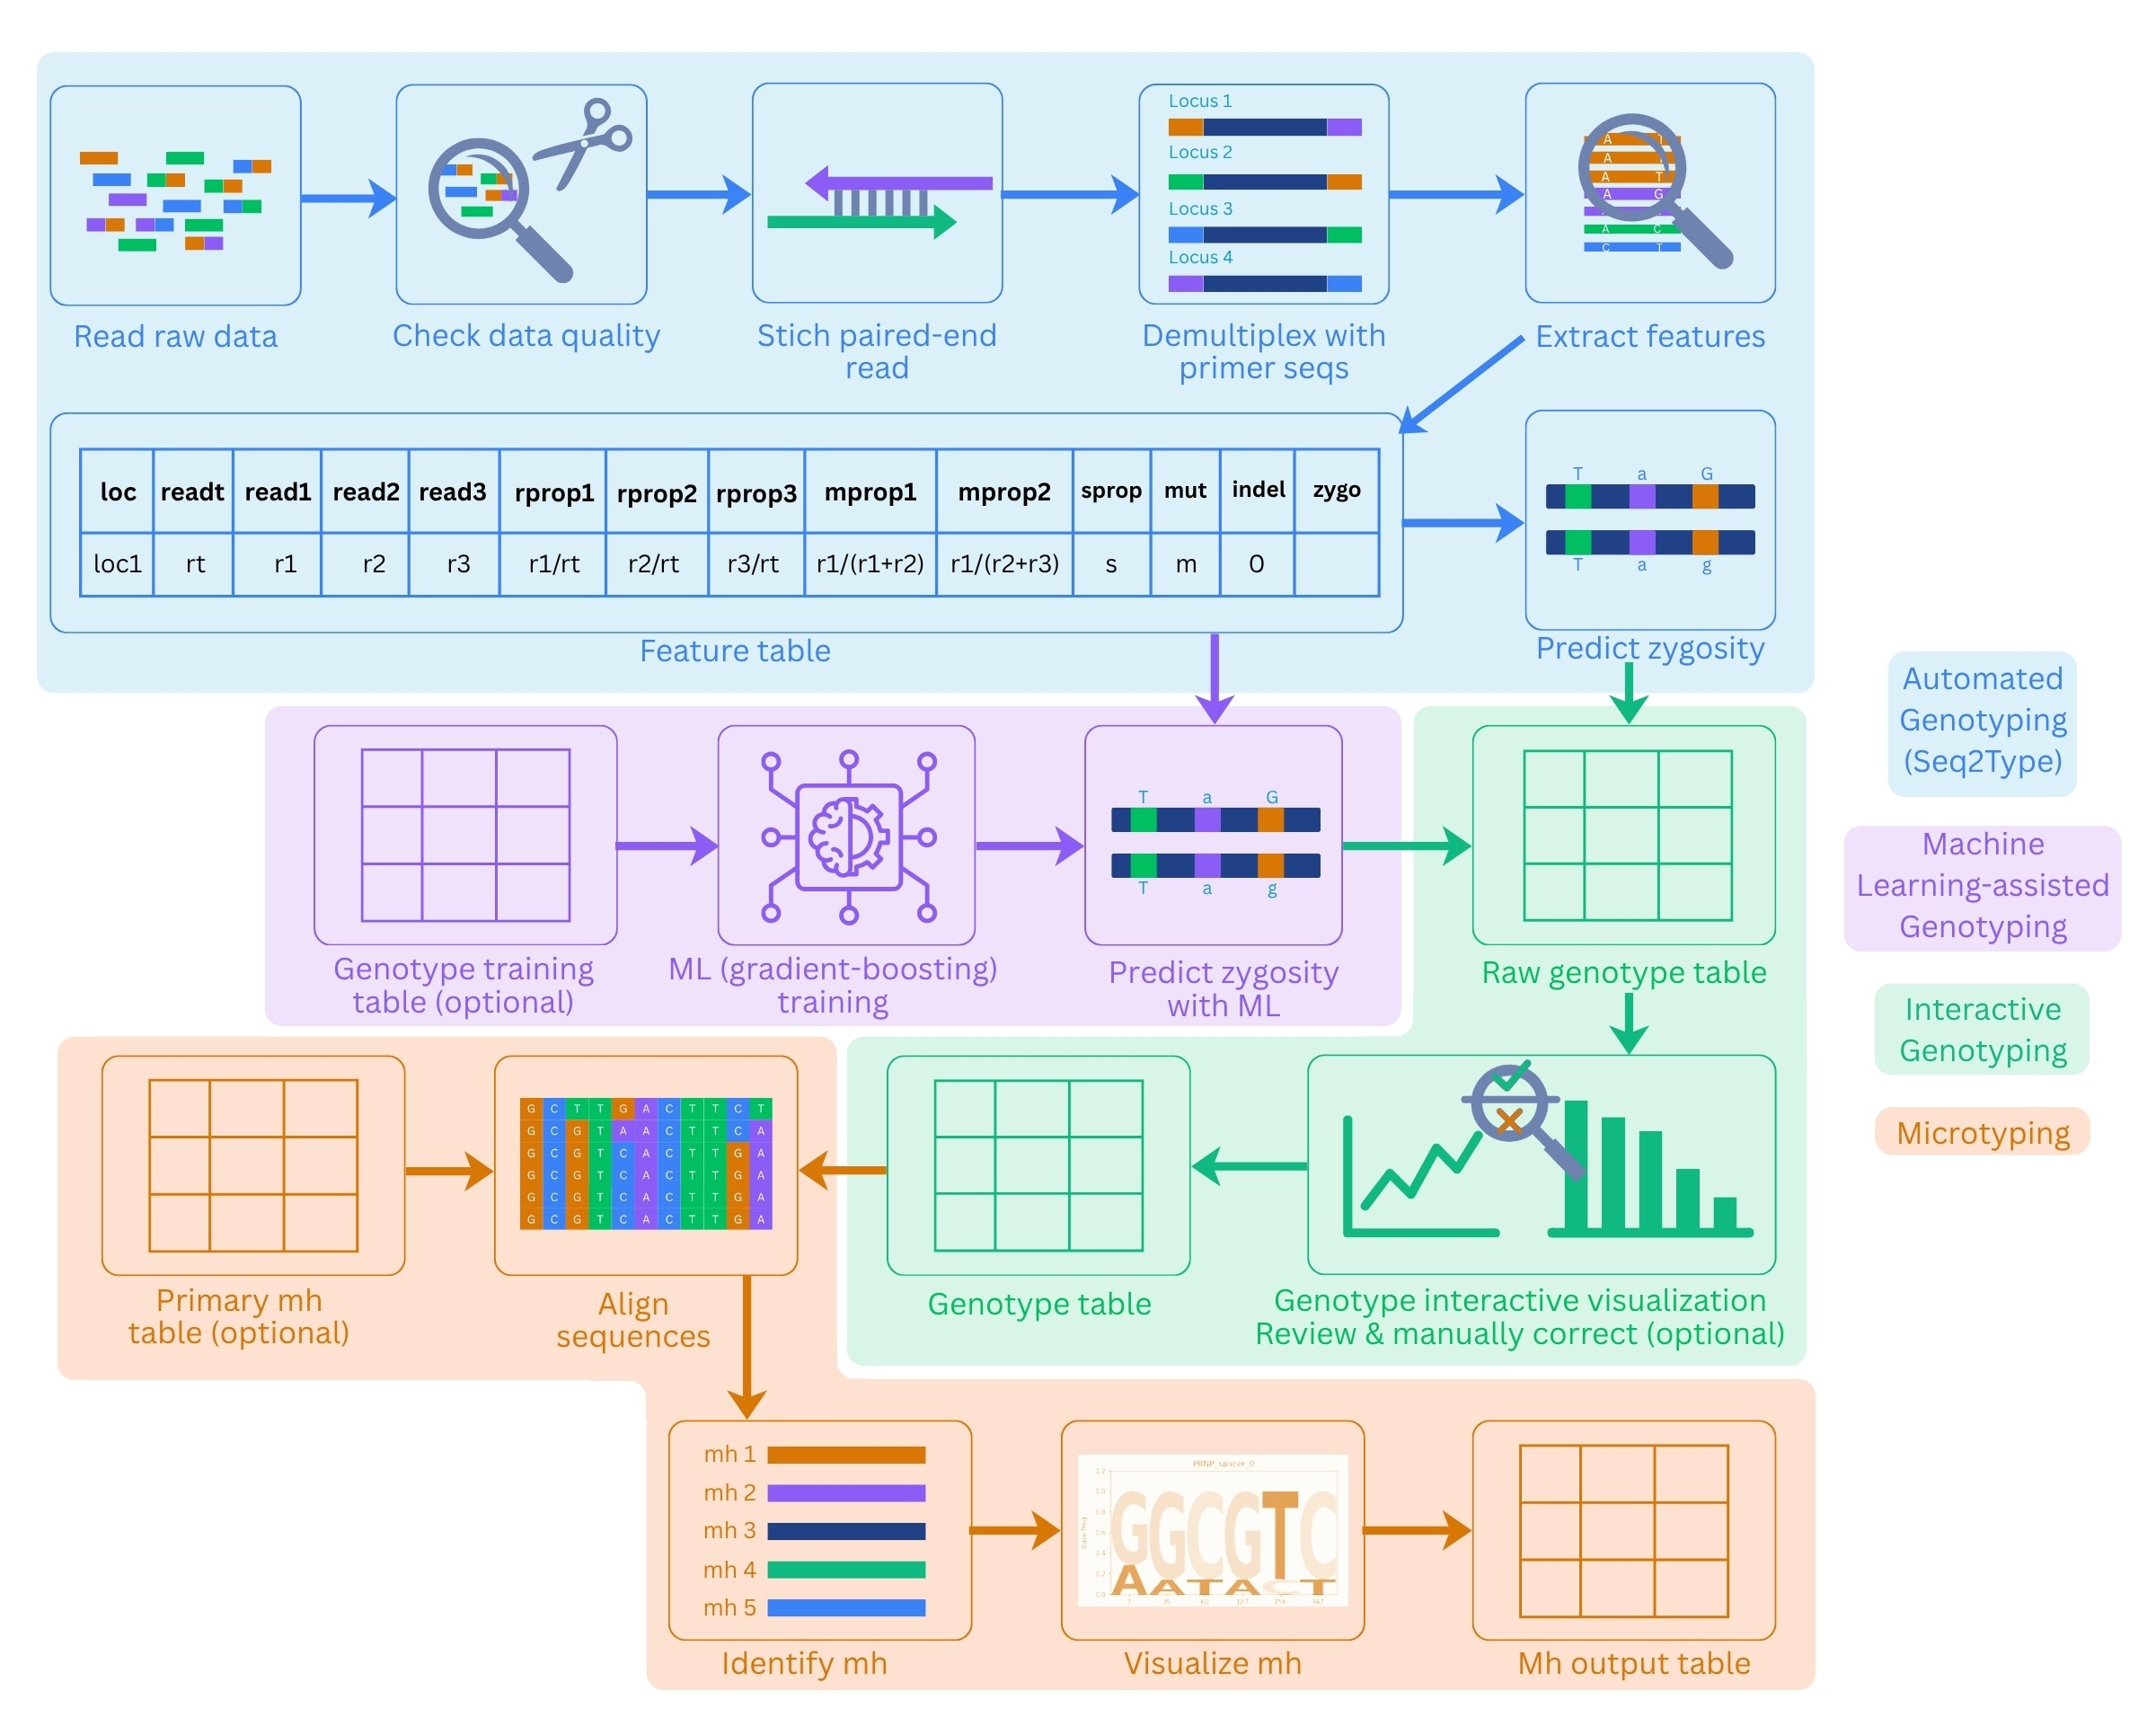
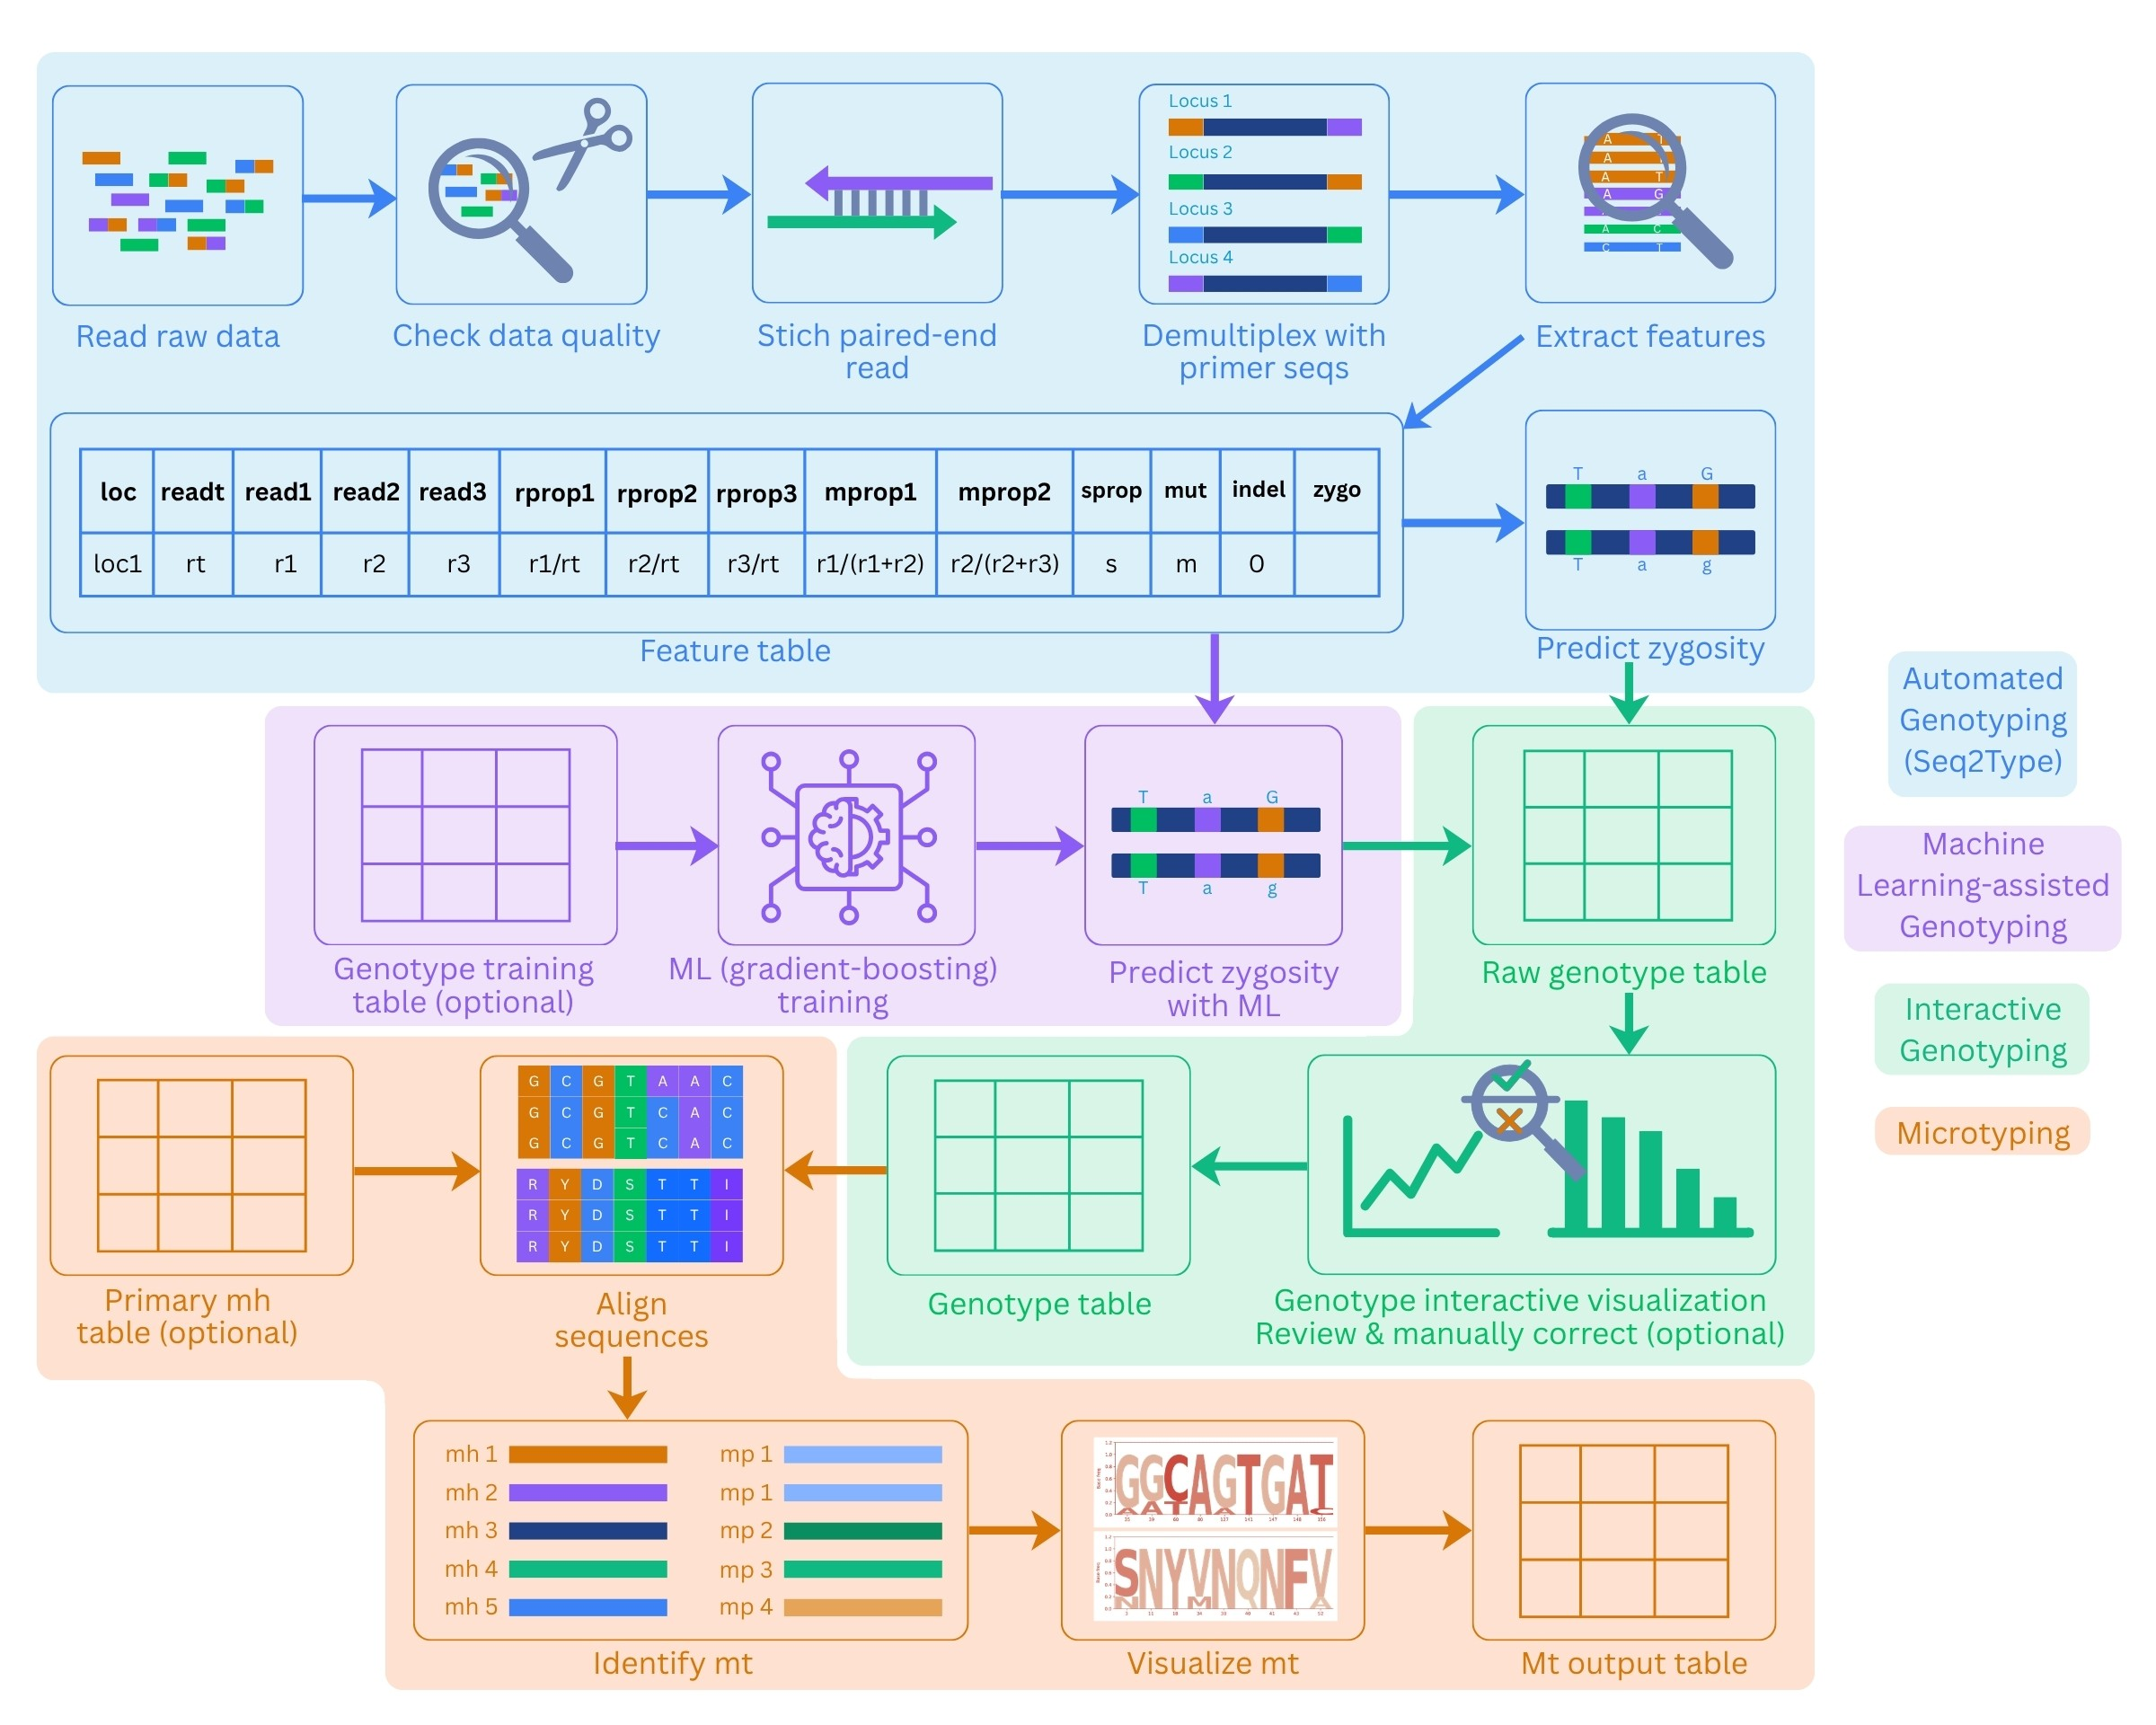
minor update

diff --git a/scripts/home_page.py b/scripts/home_page.py
@@ -71,7 +71,7 @@ def create_home(parent, app):
 
     header_label2 = ctk.CTkLabel(
         header_frame,
-        text="-- A smart & comprehensive platform for SNP & microtype genotyping, visualization from amplicon sequence data",
+        text="-- A smart, reference-free & unified platform for microhaplotype and micropeptype genotyping, visualization from amplicon sequence data",
         font=subtitle_font,
         fg_color="transparent",
         text_color=COLORS['text_secondary'],
@@ -90,7 +90,7 @@ def create_home(parent, app):
         {"title": "Genotyping", "desc": "\u2022Read raw amplicon sequence data (fastq.gz)\n\u2022Conduct read quality control\n\u2022Demultiplex reads based on locus's primer sequences\n\u2022Extract various features\n\u2022Predict zygosity & genotype\n\u2022Review & correct genotype on interactive genotype plot\n\u2022Based on software tool Seq2Type", "color": COLORS['primary'], "row": 0, "col": 0, "page": "genotyping"},
         {"title": "Microtyping", "desc": "\u2022Identify & visualize microtypes (microhaplotype & micropeptype)\n\u2022Align sequence & construct phylogenetic tree\n\u2022Visualize microtype & sequence alignment\n\u2022Visualize phylogenetic tree\n\u2022Generate microtype plot\n\u2022Based on output genotype file from Genotype module\n", "color": COLORS['accent'], "row": 0, "col": 1, "page": "microtyping"},
         {"title": "Machine Learning", "desc": "\u2022Train ML models\n\u2022Apply models to feature table\n\u2022Predict zygosity & genotype for smart genotyping\n\u2022Based on an existing genotype table\n\u2022This module is optional", "color": COLORS['success'], "row": 1, "col": 0, "page": "machine learning"},
-        {"title": "Project Managing", "desc": "\u2022Manage existing projects\n\u2022Review & reedit genotype\n\u2022Review microtype\n\n", "color": COLORS['workflow_gold'], "row": 1, "col": 1, "page": "project"}
+        {"title": "Project Management", "desc": "\u2022Manage existing projects\n\u2022Review & reedit genotype\n\u2022Review microtype\n\n", "color": COLORS['workflow_gold'], "row": 1, "col": 1, "page": "project"}
     ]
     def create_modern_card(parent, card_data, app):
         # Card with border color matching its main color
@@ -137,16 +137,77 @@ def create_home(parent, app):
     lower_panel.grid_columnconfigure(1, weight=1)
     lower_panel.grid_rowconfigure(0, weight=1)
 
-    contact_info = "Contact: Dr. Peng Liu\nEnvironment and Climate Change Canada\nEmail: [email redacted]"
-    citation_info = "Citation: Liu, P. et al. SmarTyper: towards smart SNP and microhaplotype genotyping. (2026).\nGithub: https://github.com/rocpengliu/SmarTyper"
+    contact_name = "Contact: Dr. Peng Liu"
+    contact_email = "[email redacted]"
+    contact_org = "Environment and Climate Change Canada"
+    citation_text = "Citation: Liu, P. et al. SmarTyper: a reference-free and unified platform for microhaplotype and micropeptype genotyping. (2026)."
+    github_text = "Github: https://github.com/rocpengliu/SmarTyper"
 
     contact_panel = ctk.CTkFrame(lower_panel, fg_color="transparent")
-    contact_panel.grid(row=0, column=0, sticky="nse", padx=(0, 10))
-    ctk.CTkLabel(contact_panel, text=contact_info, font=("Segoe UI", 11), text_color=COLORS['text_secondary'], fg_color="transparent", anchor="e", justify="right").pack(fill="both", expand=True, pady=1)
+    contact_panel.grid(row=0, column=0, sticky="ne", padx=(0, 10))
+    contact_panel.grid_columnconfigure(0, weight=1)
+
+    ctk.CTkLabel(
+        contact_panel,
+        text=contact_name,
+        font=("Segoe UI", 10),
+        text_color=COLORS['text_secondary'],
+        fg_color="transparent",
+        height=14,
+        anchor="e",
+        justify="right"
+    ).grid(row=0, column=0, sticky="e", pady=0)
+
+    email_label = ctk.CTkLabel(
+        contact_panel,
+        text=f"Email: {contact_email}",
+        font=("Segoe UI", 10),
+        text_color=COLORS['text_secondary'],
+        fg_color="transparent",
+        height=14,
+        anchor="e",
+        justify="right"
+    )
+    email_label.grid(row=1, column=0, sticky="e", pady=0)
+
+    ctk.CTkLabel(
+        contact_panel,
+        text=contact_org,
+        font=("Segoe UI", 10),
+        text_color=COLORS['text_secondary'],
+        fg_color="transparent",
+        height=14,
+        anchor="e",
+        justify="right"
+    ).grid(row=2, column=0, sticky="e", pady=0)
 
     citation_panel = ctk.CTkFrame(lower_panel, fg_color="transparent")
-    citation_panel.grid(row=0, column=1, sticky="nsw", padx=(10, 0))
-    ctk.CTkLabel(citation_panel, text=citation_info, font=("Segoe UI", 11), text_color=COLORS['text_secondary'], fg_color="transparent", anchor="w", justify="left").pack(fill="both", expand=True, pady=1)
+    citation_panel.grid(row=0, column=1, sticky="nw", padx=(10, 0))
+    citation_panel.grid_columnconfigure(0, weight=1)
+
+    citation_label = ctk.CTkLabel(
+        citation_panel,
+        text=citation_text,
+        font=("Segoe UI", 10),
+        text_color=COLORS['text_secondary'],
+        fg_color="transparent",
+        height=14,
+        anchor="w",
+        justify="left"
+    )
+    citation_label.grid(row=0, column=0, sticky="w", pady=0)
+
+    github_label = ctk.CTkLabel(
+        citation_panel,
+        text=github_text,
+        font=("Segoe UI", 10),
+        text_color=COLORS['text_secondary'],
+        fg_color="transparent",
+        height=14,
+        anchor="w",
+        justify="left"
+    )
+    github_label.grid(row=1, column=0, sticky="w", pady=0)
 
     return page
 